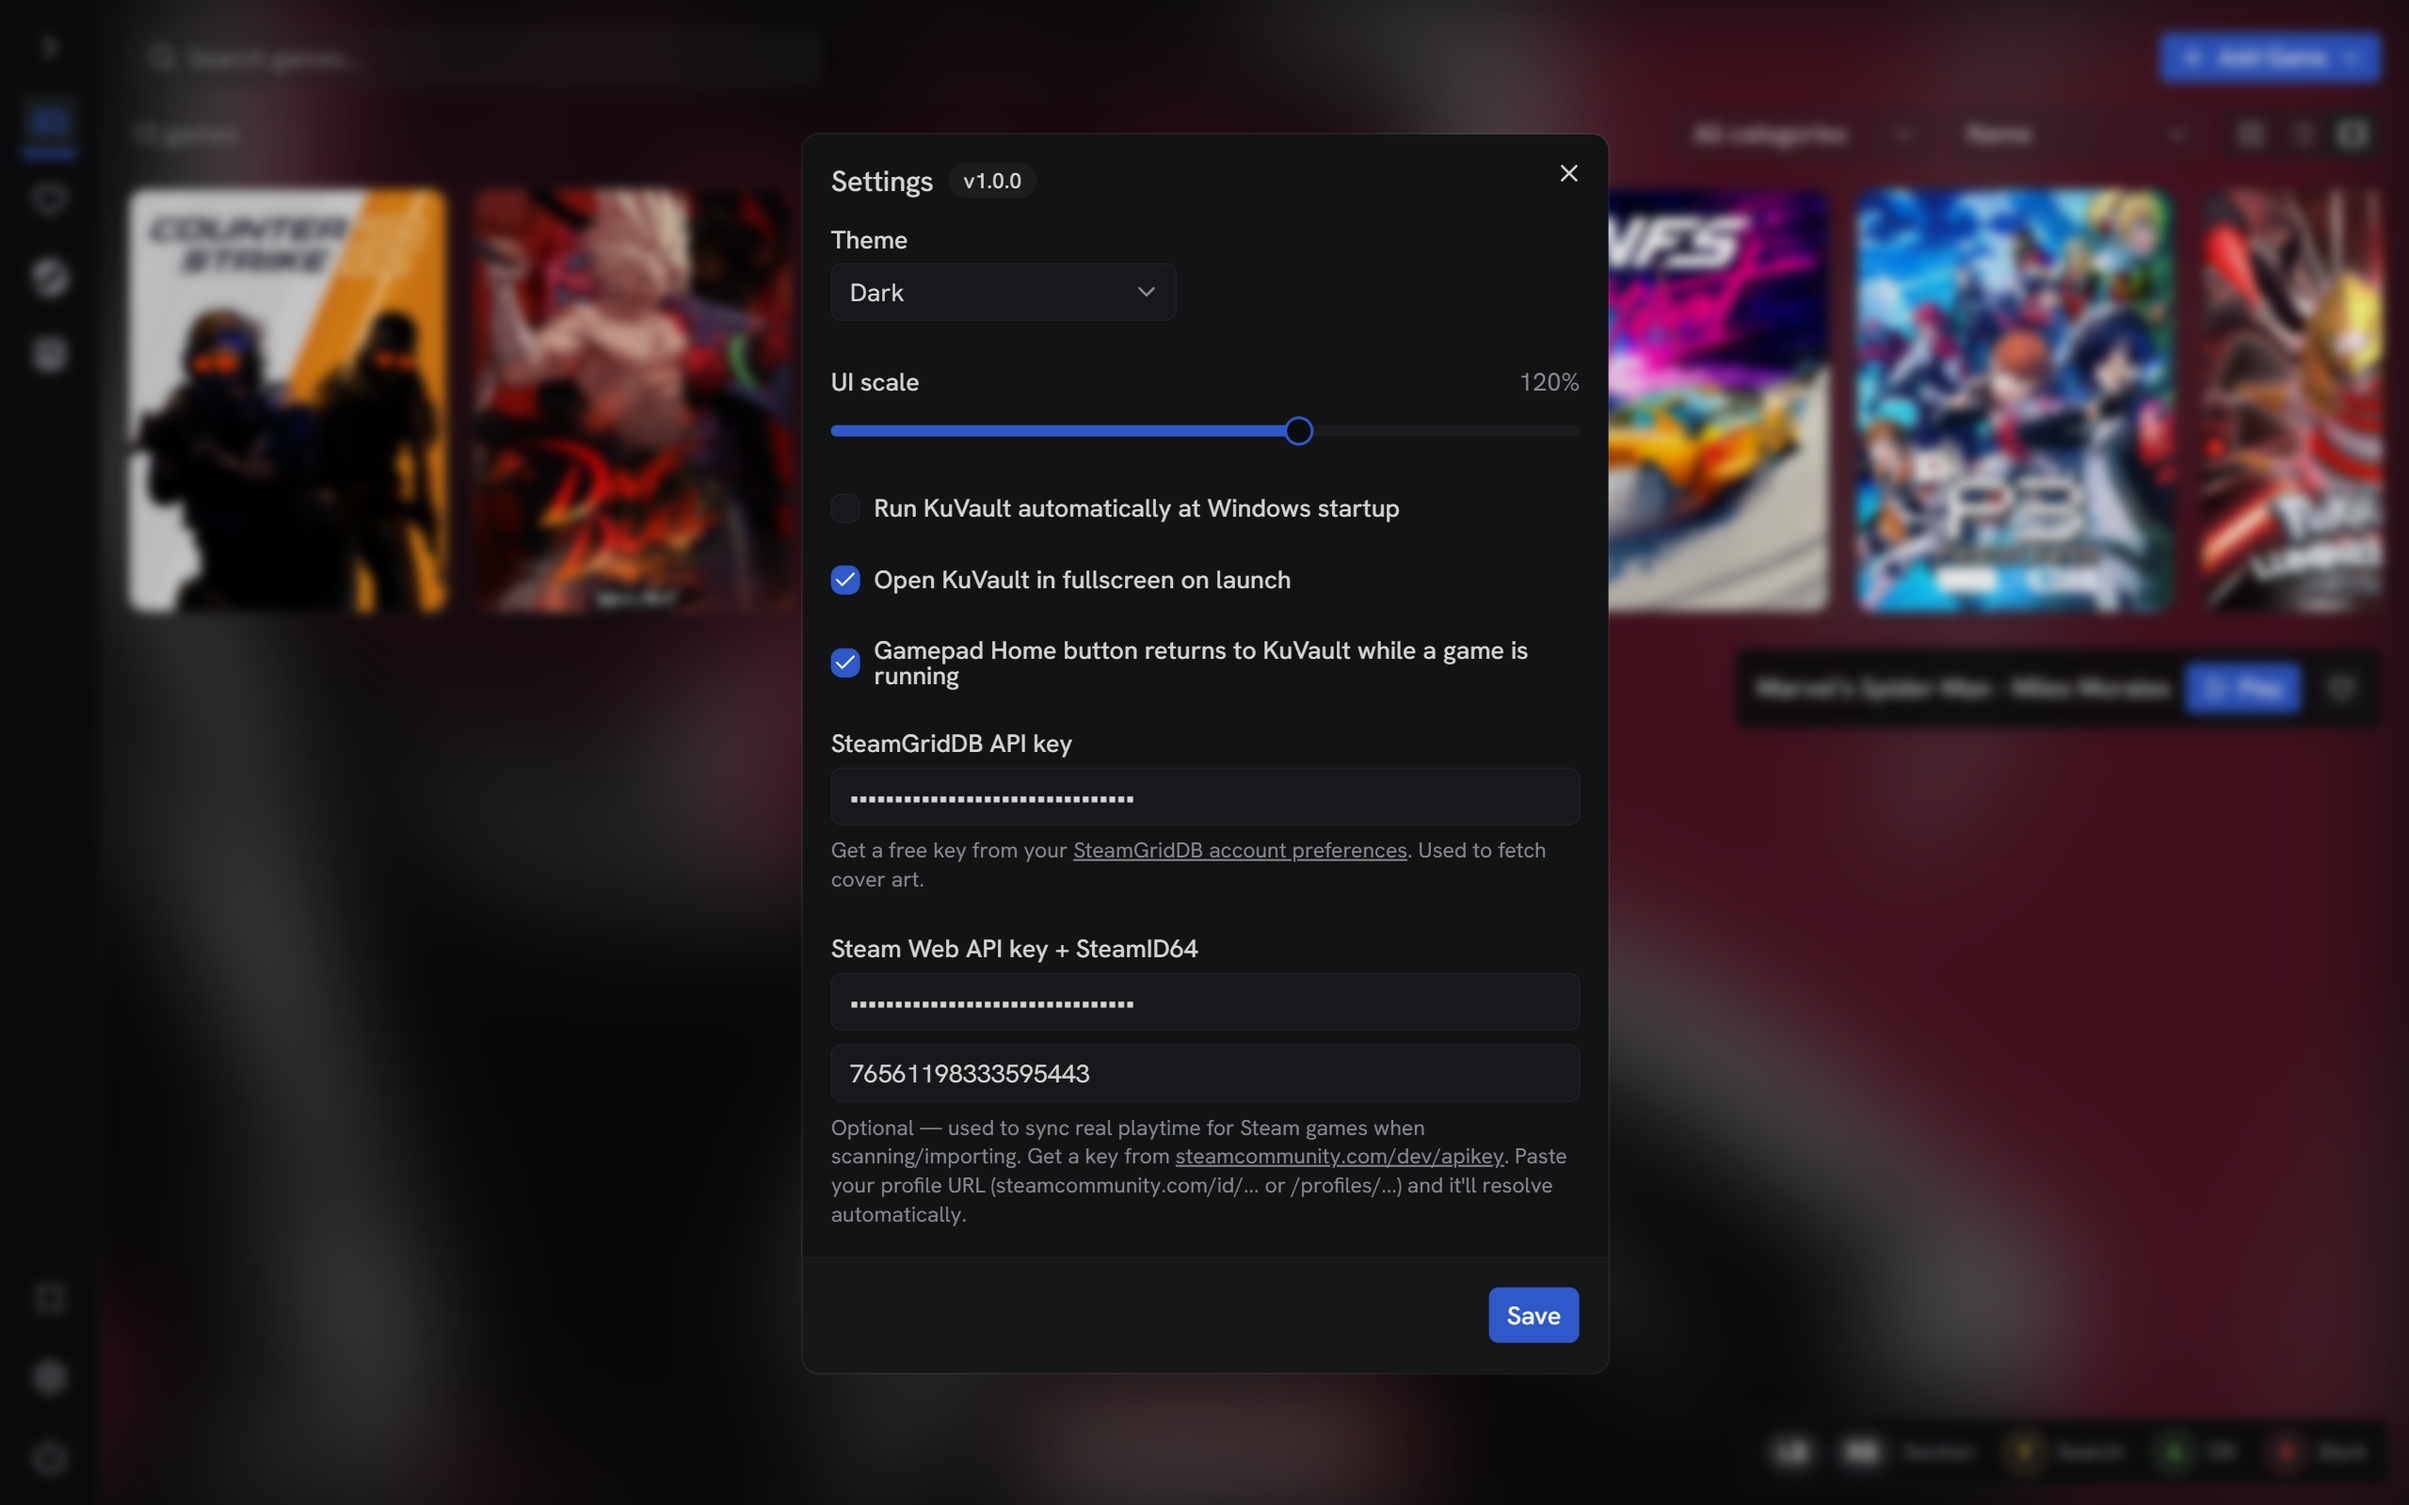
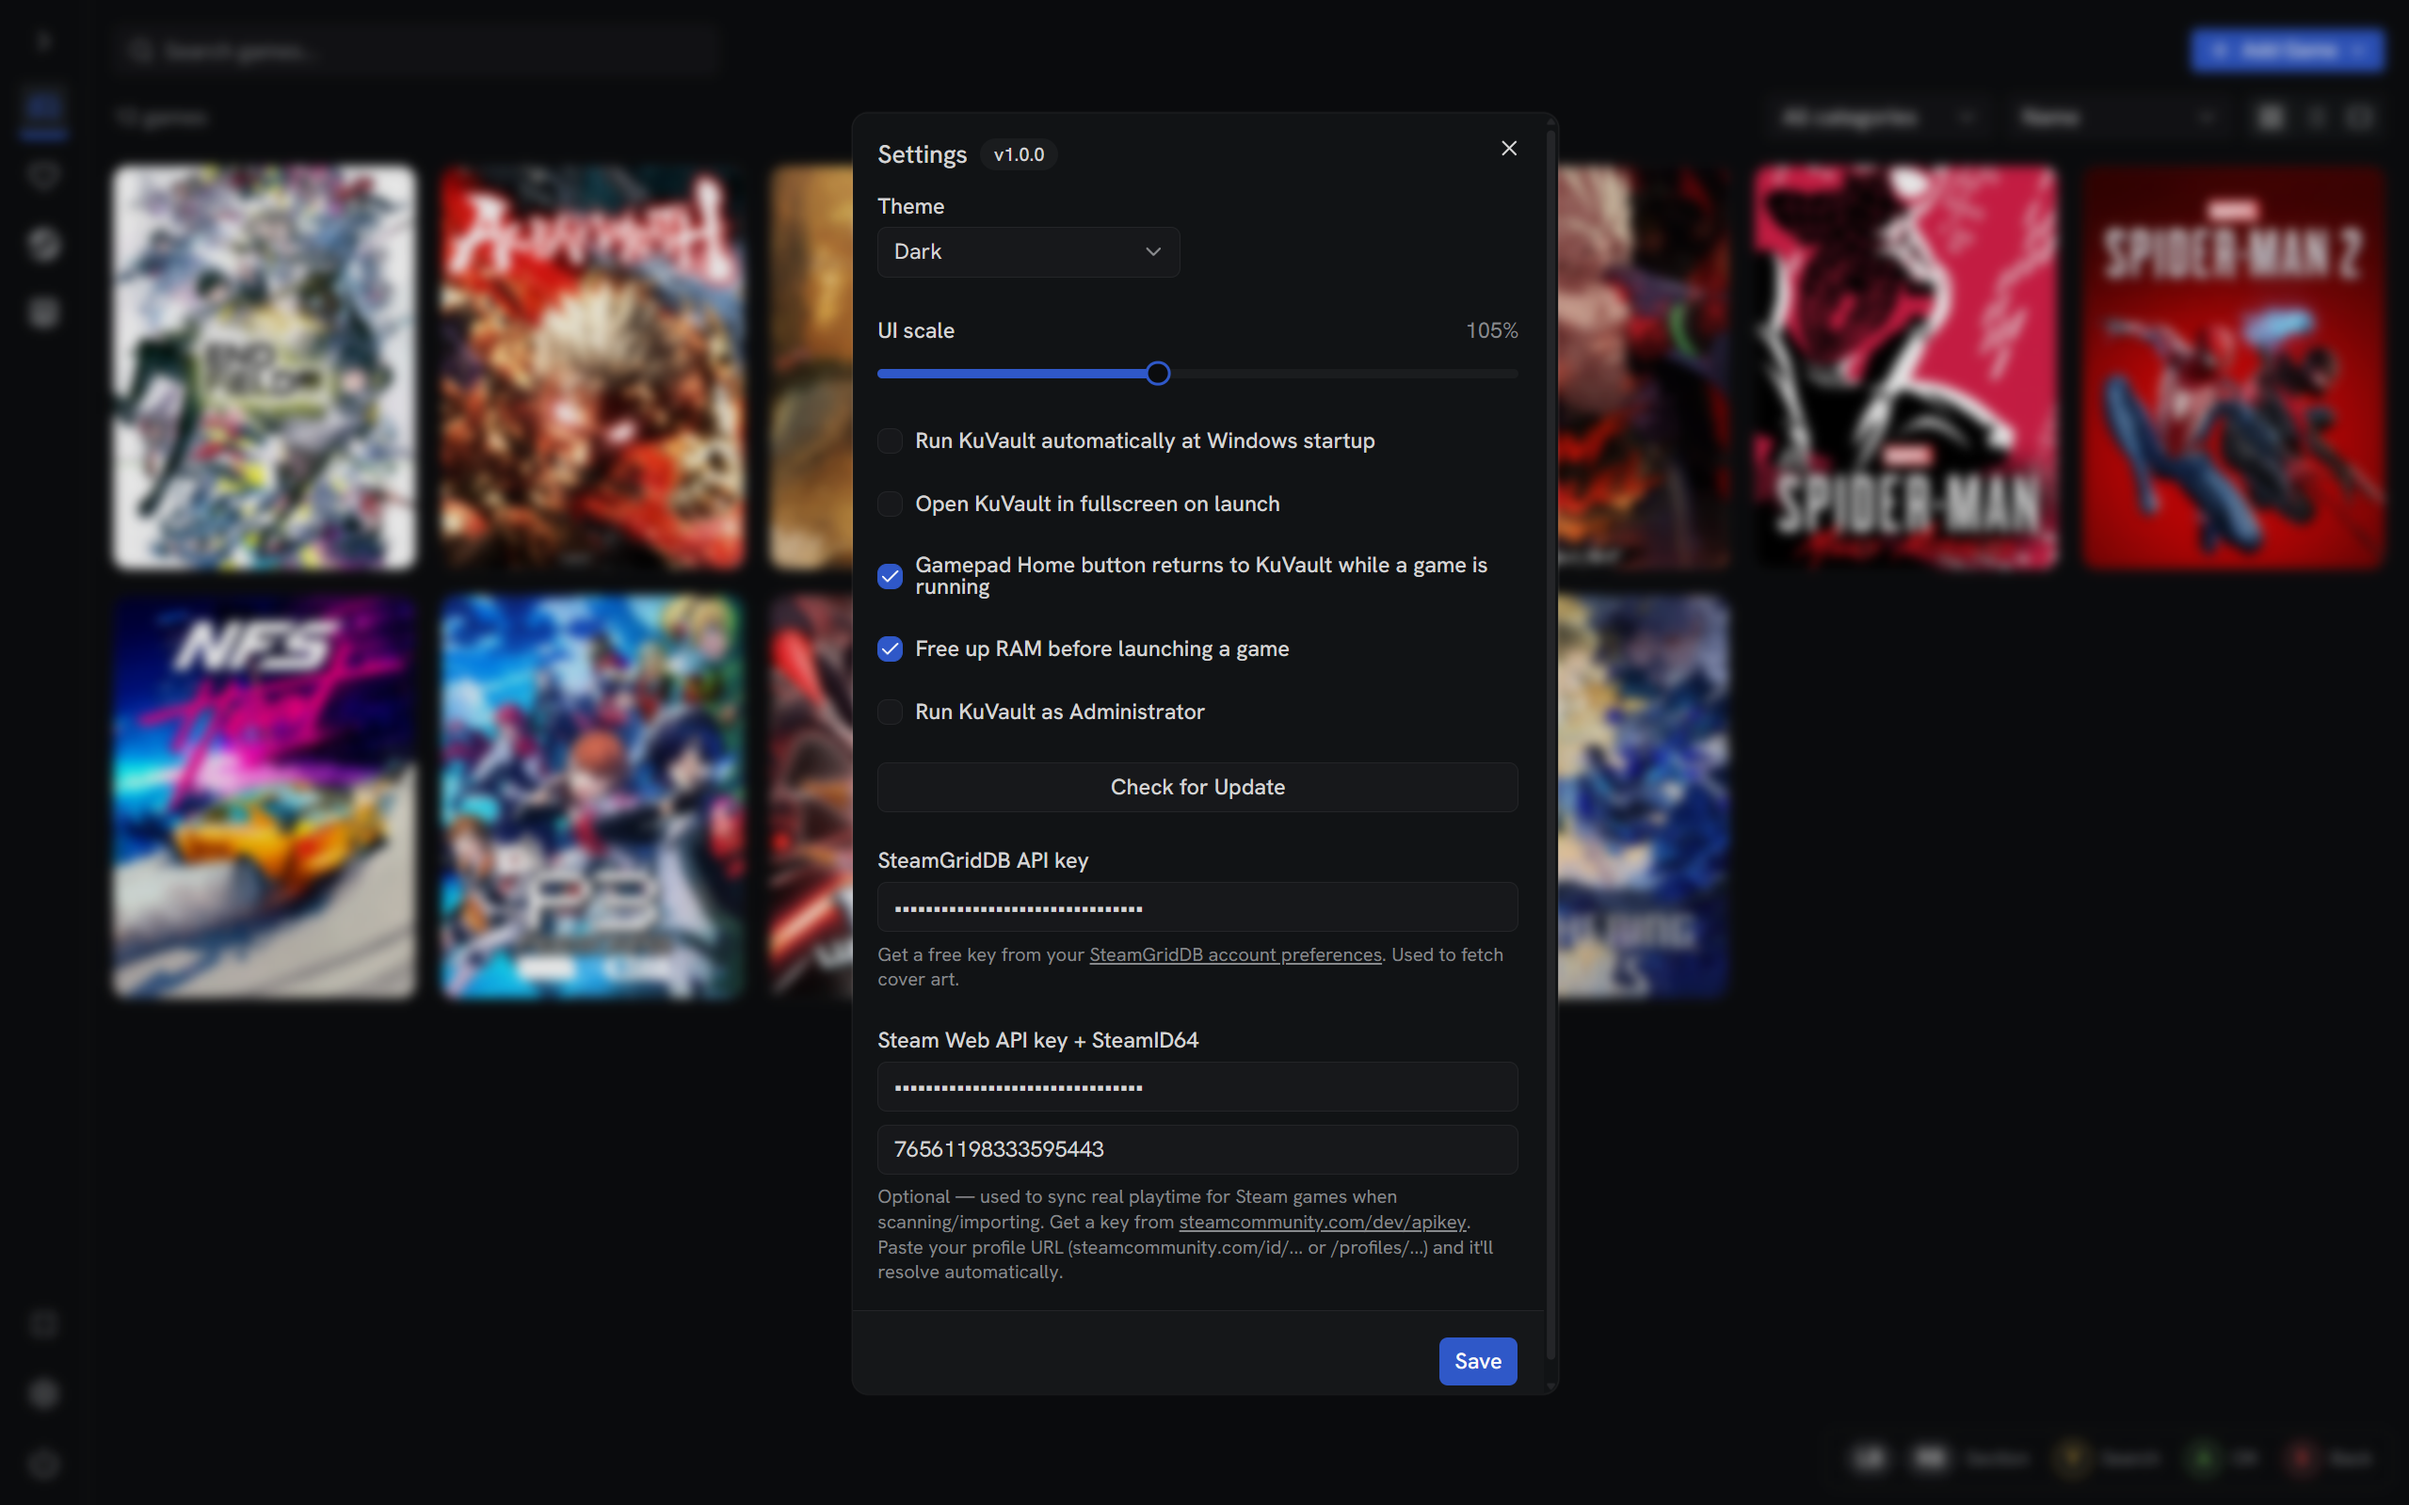
perf: extend RAM optimizer trimming to game cards and update screenshot

diff --git a/app/features/library/components/game-list-row.tsx b/app/features/library/components/game-list-row.tsx
@@ -18,6 +18,7 @@ import { Badge } from "~/components/ui/badge"
 import { Button } from "~/components/ui/button"
 import { TableCell, TableRow } from "~/components/ui/table"
 import { EditGameDialog } from "~/features/add-game/components/edit-game-dialog"
+import { LaunchConflictDialog } from "~/features/game-detail/components/launch-conflict-dialog"
 import { useLaunchGame } from "~/features/game-detail/hooks/use-launch-game"
 import { deleteGame, toggleFavorite } from "~/lib/db/db"
 import { useIsGameRunning } from "~/lib/tauri/running-games"
@@ -40,7 +41,7 @@ export function GameListRow({
   onUpdateGame: (id: number, patch: Partial<Game>) => void
 }) {
   const isRunning = useIsGameRunning(game.id)
-  const { launch, launching, stop, continueGame } = useLaunchGame(game)
+  const { launch, launching, stop, continueGame, launchConflict } = useLaunchGame(game)
   const [editOpen, setEditOpen] = useState(false)
 
   async function handleFavorite() {
@@ -174,6 +175,8 @@ export function GameListRow({
           onOpenChange={setEditOpen}
           onSaved={onChange}
         />
+
+        <LaunchConflictDialog {...launchConflict} />
       </TableCell>
     </TableRow>
   )

diff --git a/app/features/library/components/game-carousel.tsx b/app/features/library/components/game-carousel.tsx
@@ -9,6 +9,7 @@ import {
 } from "lucide-react"
 
 import { Button } from "~/components/ui/button"
+import { LaunchConflictDialog } from "~/features/game-detail/components/launch-conflict-dialog"
 import { useLaunchGame } from "~/features/game-detail/hooks/use-launch-game"
 import { toggleFavorite } from "~/lib/db/db"
 import { FocusZone } from "~/lib/gamepad/focus-zone"
@@ -138,7 +139,7 @@ function GameCarouselActions({
   onUpdateGame: (id: number, patch: Partial<Game>) => void
 }) {
   const isRunning = useIsGameRunning(game.id)
-  const { launch, launching, stop, continueGame } = useLaunchGame(game)
+  const { launch, launching, stop, continueGame, launchConflict } = useLaunchGame(game)
 
   async function handleFavorite() {
     const next = game.is_favorite === 0
@@ -197,6 +198,8 @@ function GameCarouselActions({
           }
         />
       </Button>
+
+      <LaunchConflictDialog {...launchConflict} />
     </FocusZone>
   )
 }

diff --git a/app/lib/settings/ram-optimize.ts b/app/lib/settings/ram-optimize.ts
@@ -1,8 +1,9 @@
 const STORAGE_KEY = "kuvault-ram-optimize"
 
 export function getRamOptimize(): boolean {
-  if (typeof localStorage === "undefined") return false
-  return localStorage.getItem(STORAGE_KEY) === "true"
+  if (typeof localStorage === "undefined") return true
+  const stored = localStorage.getItem(STORAGE_KEY)
+  return stored === null ? true : stored === "true"
 }
 
 export function setRamOptimize(value: boolean) {

diff --git a/src-tauri/src/services/ram_optimizer.rs b/src-tauri/src/services/ram_optimizer.rs
@@ -131,6 +131,7 @@ pub fn trim_own_webview() {
         if windows_trim::trim_process(pid.as_u32()) {
             trimmed += 1;
         }
+        windows_trim::set_efficiency_mode(pid.as_u32(), true);
     }
 
     windows_trim::trim_self();
@@ -144,13 +145,60 @@ pub fn trim_own_webview() {
 #[cfg(not(target_os = "windows"))]
 pub fn trim_own_webview() {}
 
+/// Clears the throttled/idle state applied by [`trim_own_webview`] on our own `msedgewebview2.exe`
+/// process tree. Called when the main window is restored so the webview isn't left throttled while
+/// the user is actively using the app.
+#[cfg(target_os = "windows")]
+pub fn restore_own_webview() {
+    use sysinfo::{Pid, ProcessRefreshKind, ProcessesToUpdate, System};
+
+    let mut system = System::new();
+    system.refresh_processes_specifics(ProcessesToUpdate::All, true, ProcessRefreshKind::new());
+
+    let our_pid = Pid::from_u32(std::process::id());
+
+    let descends_from_us = |mut pid: Pid| -> bool {
+        while let Some(process) = system.process(pid) {
+            let Some(parent) = process.parent() else {
+                return false;
+            };
+            if parent == our_pid {
+                return true;
+            }
+            pid = parent;
+        }
+        false
+    };
+
+    for (pid, process) in system.processes() {
+        let pid = *pid;
+        if !process
+            .name()
+            .to_str()
+            .is_some_and(|name| name.eq_ignore_ascii_case("msedgewebview2.exe"))
+        {
+            continue;
+        }
+        if !descends_from_us(pid) {
+            continue;
+        }
+        windows_trim::set_efficiency_mode(pid.as_u32(), false);
+    }
+}
+
+#[cfg(not(target_os = "windows"))]
+pub fn restore_own_webview() {}
+
 #[cfg(target_os = "windows")]
 mod windows_trim {
     use windows_sys::Win32::Foundation::CloseHandle;
     use windows_sys::Win32::System::ProcessStatus::EmptyWorkingSet;
     use windows_sys::Win32::System::Threading::{
-        GetCurrentProcess, OpenProcess, PROCESS_QUERY_INFORMATION, PROCESS_QUERY_LIMITED_INFORMATION,
-        PROCESS_SET_QUOTA,
+        GetCurrentProcess, OpenProcess, ProcessPowerThrottling, SetPriorityClass,
+        SetProcessInformation, IDLE_PRIORITY_CLASS, NORMAL_PRIORITY_CLASS,
+        PROCESS_POWER_THROTTLING_CURRENT_VERSION, PROCESS_POWER_THROTTLING_EXECUTION_SPEED,
+        PROCESS_POWER_THROTTLING_STATE, PROCESS_QUERY_INFORMATION,
+        PROCESS_QUERY_LIMITED_INFORMATION, PROCESS_SET_INFORMATION, PROCESS_SET_QUOTA,
     };
 
     /// Returns false on any failure (access denied, process exited) — callers just count and
@@ -175,5 +223,53 @@ mod windows_trim {
         unsafe {
             EmptyWorkingSet(GetCurrentProcess());
         }
+    }
+
+    /// Toggles EcoQoS power throttling + background priority on `pid` — the same "Efficiency
+    /// Mode" Task Manager shows with a green leaf icon. `enabled=false` restores normal priority
+    /// and clears throttling. Best-effort: returns false on any failure, callers just count.
+    pub fn set_efficiency_mode(pid: u32, enabled: bool) -> bool {
+        let mut handle = unsafe {
+            OpenProcess(
+                PROCESS_SET_INFORMATION | PROCESS_QUERY_LIMITED_INFORMATION,
+                0,
+                pid,
+            )
+        };
+        if handle.is_null() {
+            handle = unsafe {
+                OpenProcess(PROCESS_SET_INFORMATION | PROCESS_QUERY_INFORMATION, 0, pid)
+            };
+        }
+        if handle.is_null() {
+            return false;
+        }
+
+        let priority_ok = unsafe {
+            SetPriorityClass(
+                handle,
+                if enabled { IDLE_PRIORITY_CLASS } else { NORMAL_PRIORITY_CLASS },
+            )
+        } != 0;
+
+        let mut state = PROCESS_POWER_THROTTLING_STATE {
+            Version: PROCESS_POWER_THROTTLING_CURRENT_VERSION,
+            ControlMask: PROCESS_POWER_THROTTLING_EXECUTION_SPEED,
+            StateMask: if enabled { PROCESS_POWER_THROTTLING_EXECUTION_SPEED } else { 0 },
+        };
+        let throttling_ok = unsafe {
+            SetProcessInformation(
+                handle,
+                ProcessPowerThrottling,
+                &mut state as *mut _ as *mut core::ffi::c_void,
+                std::mem::size_of::<PROCESS_POWER_THROTTLING_STATE>() as u32,
+            )
+        } != 0;
+
+        unsafe {
+            CloseHandle(handle);
+        }
+
+        priority_ok && throttling_ok
     }
 }
